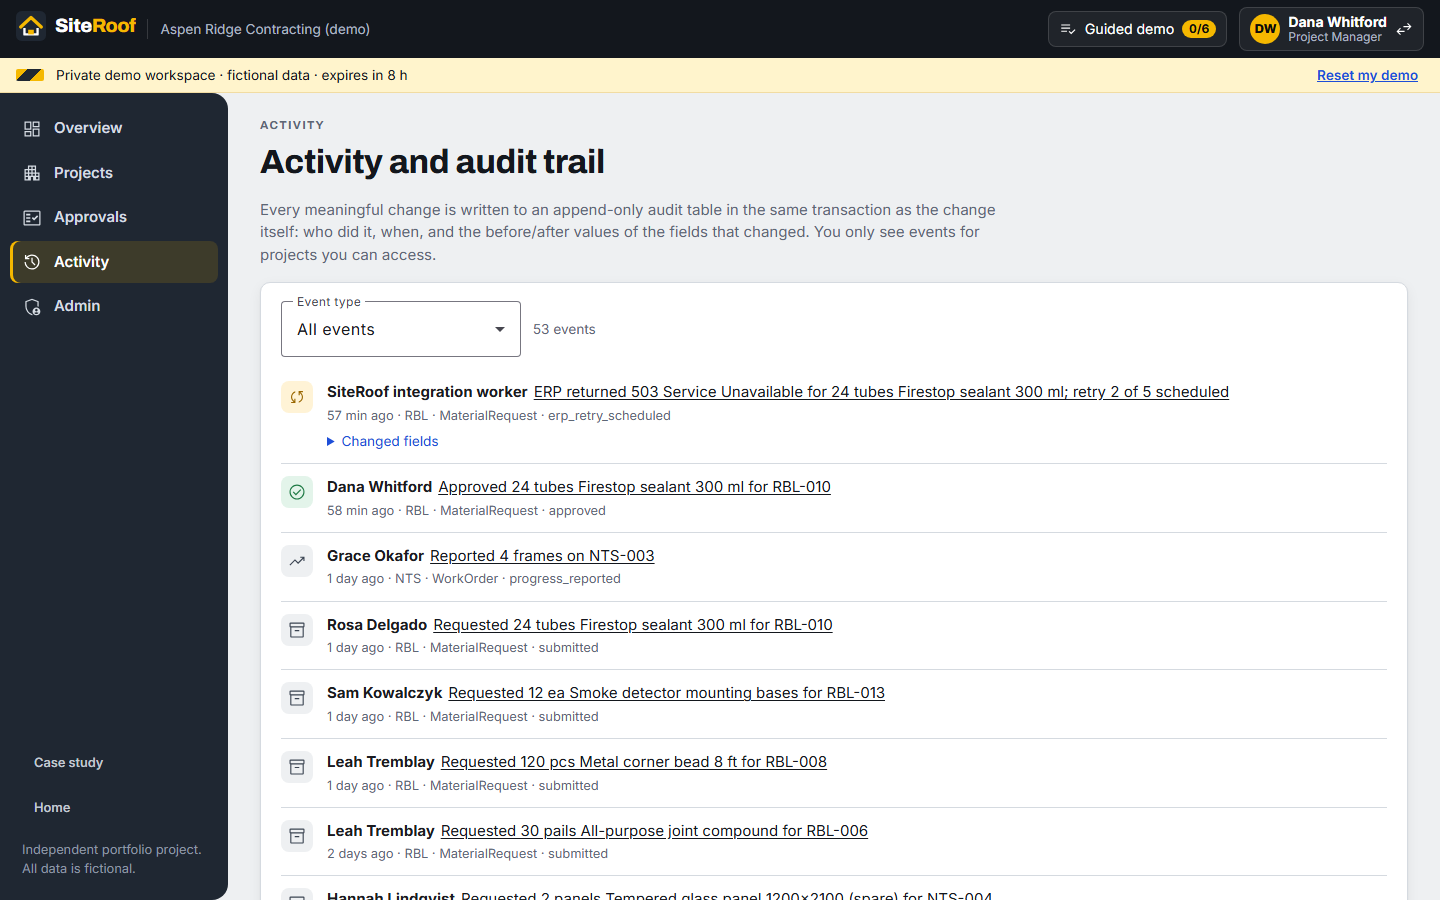
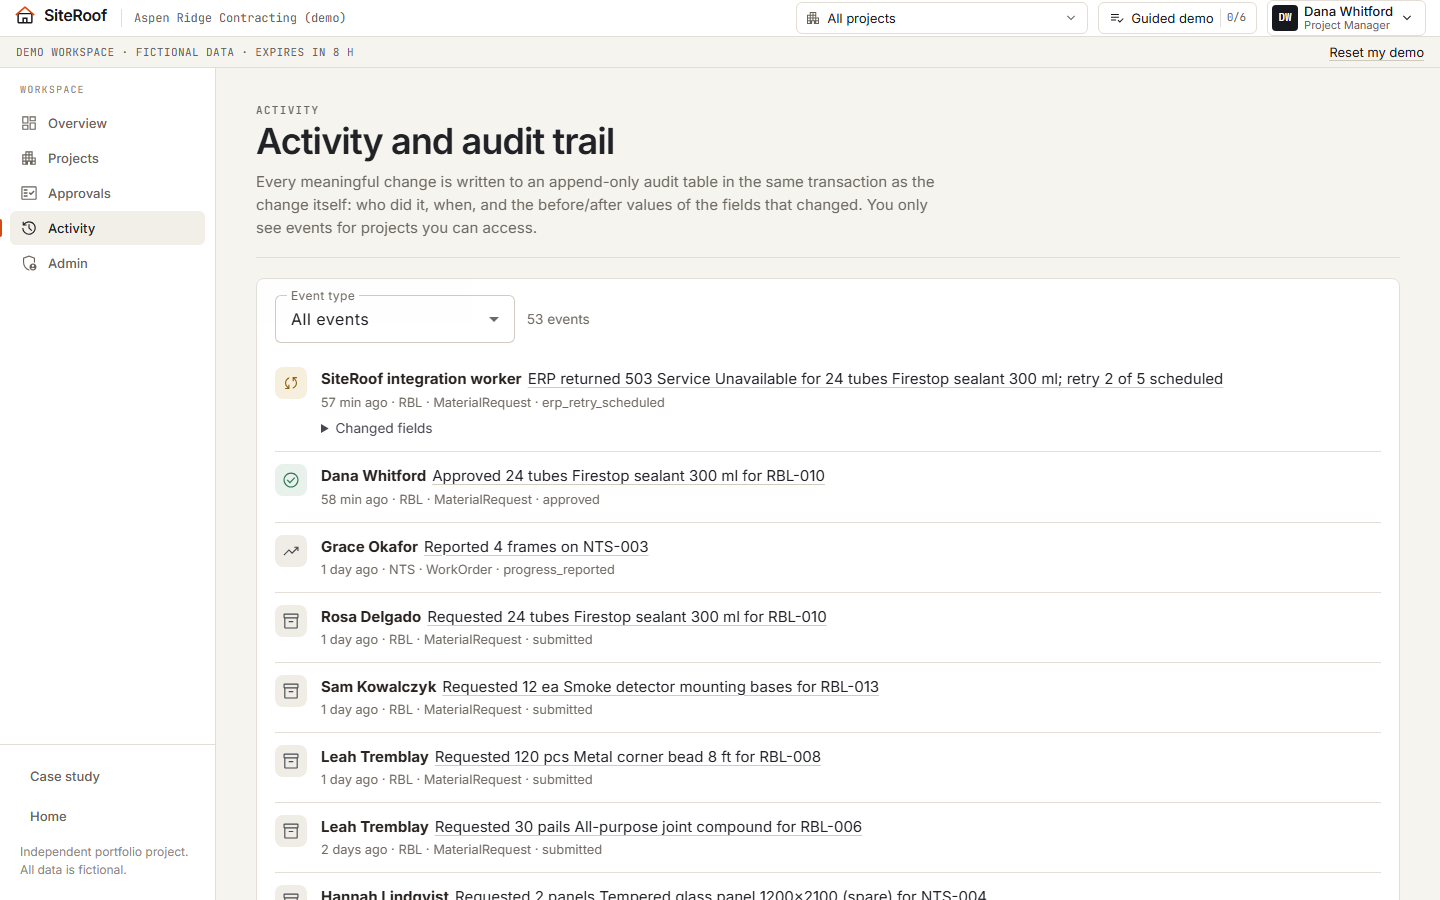
docs: redesign screenshots, design system notes and verification results

diff --git a/docs/STATUS.md b/docs/STATUS.md
@@ -1,6 +1,6 @@
 # SiteRoof — Status
 
-_Last updated: 2026-11-15. Phases 1, 2 and 3 are complete locally. **Not deployed.**_
+_Last updated: 2026-11-15. Phases 1, 2 and 3 plus the visual redesign are complete locally. **Not deployed.**_
 
 ## Done
 
@@ -46,7 +46,22 @@ _Last updated: 2026-11-15. Phases 1, 2 and 3 are complete locally. **Not deploye
 - Docs: README with real screenshots, `ARCHITECTURE.md`, `DATABASE.md`, `API.md`, `DEPLOYMENT.md` (NOT DEPLOYED),
   final `/case-study` with SVG architecture, data model and deployment diagrams, MIT `LICENSE`.
 
-## Verification (run on 2026-11-15, Windows 11, Docker Desktop)
+**Visual redesign (2026-11-15)**
+- One design system for the whole app ("a calm product UI printed on a construction drawing"): tokens in
+  `web/src/styles/_tokens.scss`, Angular Material re-skinned in `_material.scss`, shared primitives in `_base.scss`.
+  Warm drawing-paper background, hairlines, one construction-orange accent, Inter + JetBrains Mono (self-hosted),
+  muted status pills with icons and labels, re-validated chart palette. Details in `docs/ARCHITECTURE.md`.
+- Landing page rebuilt as a short drawing set: hero with a real screenshot, an annotated work-order screenshot with
+  numbered callouts, a schedule-style capability table, an ERP split section, a verification strip with recorded
+  numbers only, and a title-block footer. Case study, sign-in, demo start and 403/404 restyled to match.
+- App shell: light sidebar with line icons and an accent marker, compact top bar with a new project switcher and
+  the persona switcher, quieter demo strip. Overview, projects, board, dashboard, work order, approvals, activity
+  and admin restyled (hairline KPI strips, mono ids/dates/quantities, hairline board cards).
+- New browser test for the project switcher. A Playwright run exposed that the switcher's accessible name included
+  option text; fixed with an explicit `aria-label` (no test assertion was relaxed).
+- Screenshots in `docs/screenshots` and `web/public/screens` recaptured from the redesigned app.
+
+## Verification (run on 2026-11-15 after the redesign, Windows 11, Docker Desktop)
 
 | Command | Result |
 | --- | --- |
@@ -54,13 +69,15 @@ _Last updated: 2026-11-15. Phases 1, 2 and 3 are complete locally. **Not deploye
 | `dotnet test SiteRoof.slnx` | **60 passed**, 0 failed (xUnit; SQL Server 2022 via Testcontainers) |
 | `cd web; npm run lint` | All files pass linting |
 | `cd web; npm test` | **14 passed** (3 files, Vitest) |
-| `cd web; npm run build` | Succeeded; initial bundle 315.70 kB raw / 85.26 kB estimated transfer |
-| `cd tests/e2e; npx playwright test --project=chromium` (API on :5080 started by Playwright) | **9 passed** |
-| `docker compose --profile full up -d --build` then `E2E_BASE_URL=http://127.0.0.1:8080 npx playwright test --project=chromium` (with `DEMO_PROVISION_PERMITS=500`) | **9 passed** against the production container |
+| `cd web; npm run build` | Succeeded, no warnings; initial bundle 323.74 kB raw / 86.46 kB estimated transfer |
+| `cd tests/e2e; npx playwright test --project=chromium` (API on :5080 serving the production build) | **10 passed** |
+| `docker compose --profile full up -d --build` then `E2E_BASE_URL=http://127.0.0.1:8080 npx playwright test --project=chromium` (with `DEMO_PROVISION_PERMITS=500`) | **10 passed** against the rebuilt production container |
 | `docker run rhysd/actionlint:1.7.12` on `.github/workflows` | No findings |
 | `docker run zricethezav/gitleaks:v8.30.1 git /repo` | No leaks found |
 
-Local latency, measured with `node scripts/measure-latency.mjs http://127.0.0.1:8080 30` against the
+The `actionlint` and `gitleaks` rows above are from the pre-redesign run; the redesign did not touch the workflow.
+
+Local latency (pre-redesign; backend unchanged since), measured with `node scripts/measure-latency.mjs http://127.0.0.1:8080 30` against the
 production container and SQL Server 2022 in Docker on the development machine (not a hosted environment):
 
 | Request | Median | p95 |

diff --git a/docs/ARCHITECTURE.md b/docs/ARCHITECTURE.md
@@ -111,20 +111,36 @@ To add an AI-backed provider later (disabled by default, never required):
 | `core/` | `ApiService` (typed calls, `ApiError`), `SessionService` (signals), guards, interceptor, `Loader` |
 | `shared/` | Icons (inline SVG generated from Material Symbols), status chips, KPI tiles, states, charts |
 | `public/` | Landing, case study, demo start, sign-in, 403/404 |
-| `shell/` | Authenticated layout: navigation, persona switcher, demo banner, guided-demo panel |
+| `shell/` | Authenticated layout: navigation, project switcher, persona switcher, demo strip, guided-demo panel |
 | `features/` | Overview, projects, project detail (board / dashboard / milestones & team / activity), work order, approvals, activity, admin, dialogs |
 
 Standalone components, OnPush change detection, signals, zoneless change detection, lazy-loaded routes,
 strict TypeScript and strict templates. Fonts and icons are bundled (no third-party requests), which keeps
 the Content-Security-Policy strict.
 
+### Design system
+
+The visual language is "a calm product UI printed on a construction drawing". Tokens live in
+`web/src/styles/_tokens.scss`; `_material.scss` re-skins Angular Material to them; `_base.scss` holds element
+styles and shared primitives.
+
+| Token group | Values |
+| --- | --- |
+| Surfaces | Drawing-paper background `#F6F4EF`, white surfaces, subtle wells `#F0EDE6`, 1px hairlines `#E2DED6` / `#CFC9BD` |
+| Ink | Text `#16181D`, secondary `#3D4048`, warm-gray tertiary `#67625A` (5.5:1 on the background) |
+| Accent | Construction orange `#D9480F` for non-text marks (focus ring, active nav marker, overdue rules, callouts); `#B93D0B` for filled buttons and accent text (5.6:1 on white, WCAG AA) |
+| Type | Inter (UI and headings, 400/500/600, tight tracking on large headings) and JetBrains Mono (codes, ids, quantities, dates, numbers, sheet labels), both self-hosted |
+| Motifs | Faint 24px drawing grid behind heroes, mono "sheet" labels, title-block footer, dimension-line divider; no gradients or heavy shadows |
+| Motion | 150 ms fades and colour transitions only, disabled under `prefers-reduced-motion` |
+
+Status pills use muted tinted backgrounds with an icon and a text label, so colour is never the only signal.
+
 ### Chart colours
 
 The work-order status chart uses a categorical palette validated for lightness band, chroma, colour-vision
-deficiency separation and contrast (Open `#a77bca`, In progress `#2a6fdb`, Blocked `#d03b3b`,
-Completed `#c98a00`, Closed `#1f7a45`). Because two colours sit below 3:1 contrast on the light surface,
-every chart has a legend, visible counts, hover tooltips and a table view; status chips always pair colour
-with an icon and a label.
+deficiency separation, normal-vision separation and contrast (Open `#A07AC0`, In progress `#2D6CC9`, Blocked
+`#C53D33`, Completed `#BE8510`, Closed `#24804B`): the most muted set tried that passes every check. Every chart
+also has a legend, direct counts, hover tooltips and a table view.
 
 ## Trade-offs
 

diff --git a/README.md b/README.md
@@ -42,7 +42,7 @@ request → see the dashboard and ERP status update.*
 
 ## Stack
 
-Angular 22 (standalone, signals, strict TypeScript, SCSS, Angular Material) · ASP.NET Core on .NET 10 ·
+Angular 22 (standalone, signals, strict TypeScript, SCSS, Angular Material re-skinned to a small token-based design system) · ASP.NET Core on .NET 10 ·
 EF Core 10 · SQL Server 2022 · xUnit + Testcontainers · Vitest · Playwright · Docker · GitHub Actions.
 One container: the API serves the Angular build from the same origin (cookie auth + CSRF, no CORS).
 
@@ -98,4 +98,4 @@ docs                    Spec, status, architecture, database, API, deployment, s
 
 ## License
 
-[MIT](LICENSE). Icons: Material Symbols (Apache 2.0). Fonts: Inter and Archivo (SIL OFL 1.1).
+[MIT](LICENSE). Icons: Material Symbols (Apache 2.0). Fonts: Inter and JetBrains Mono (SIL OFL 1.1).
